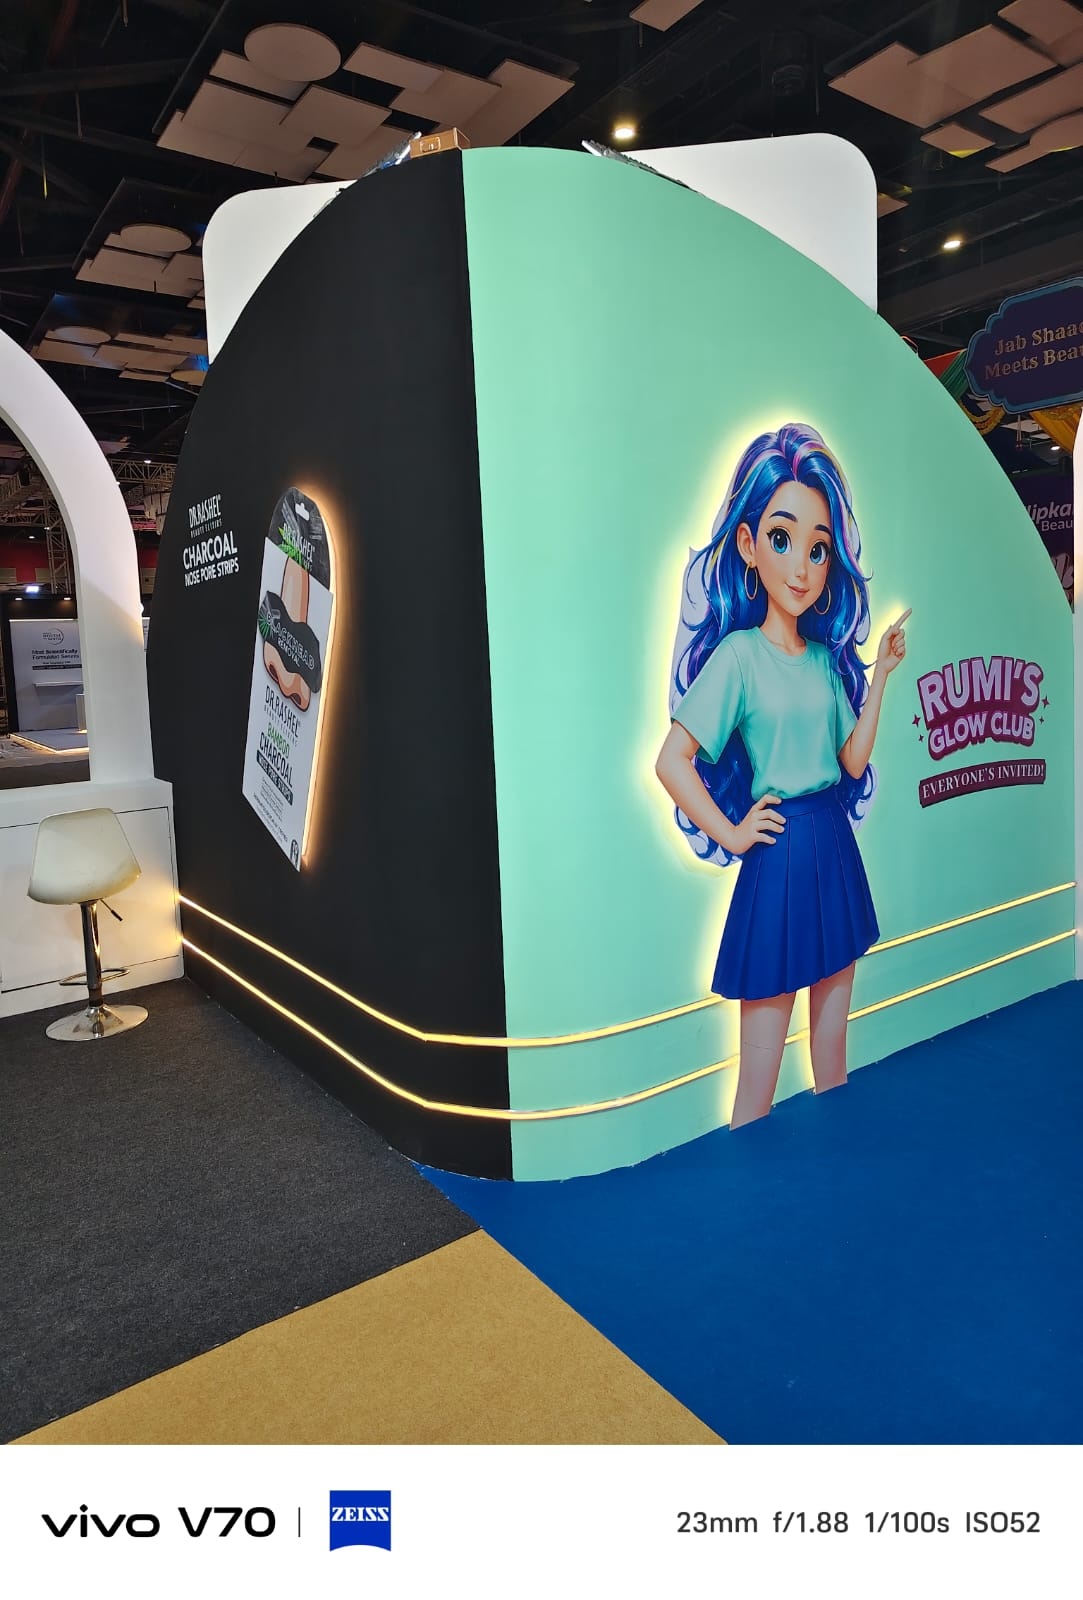
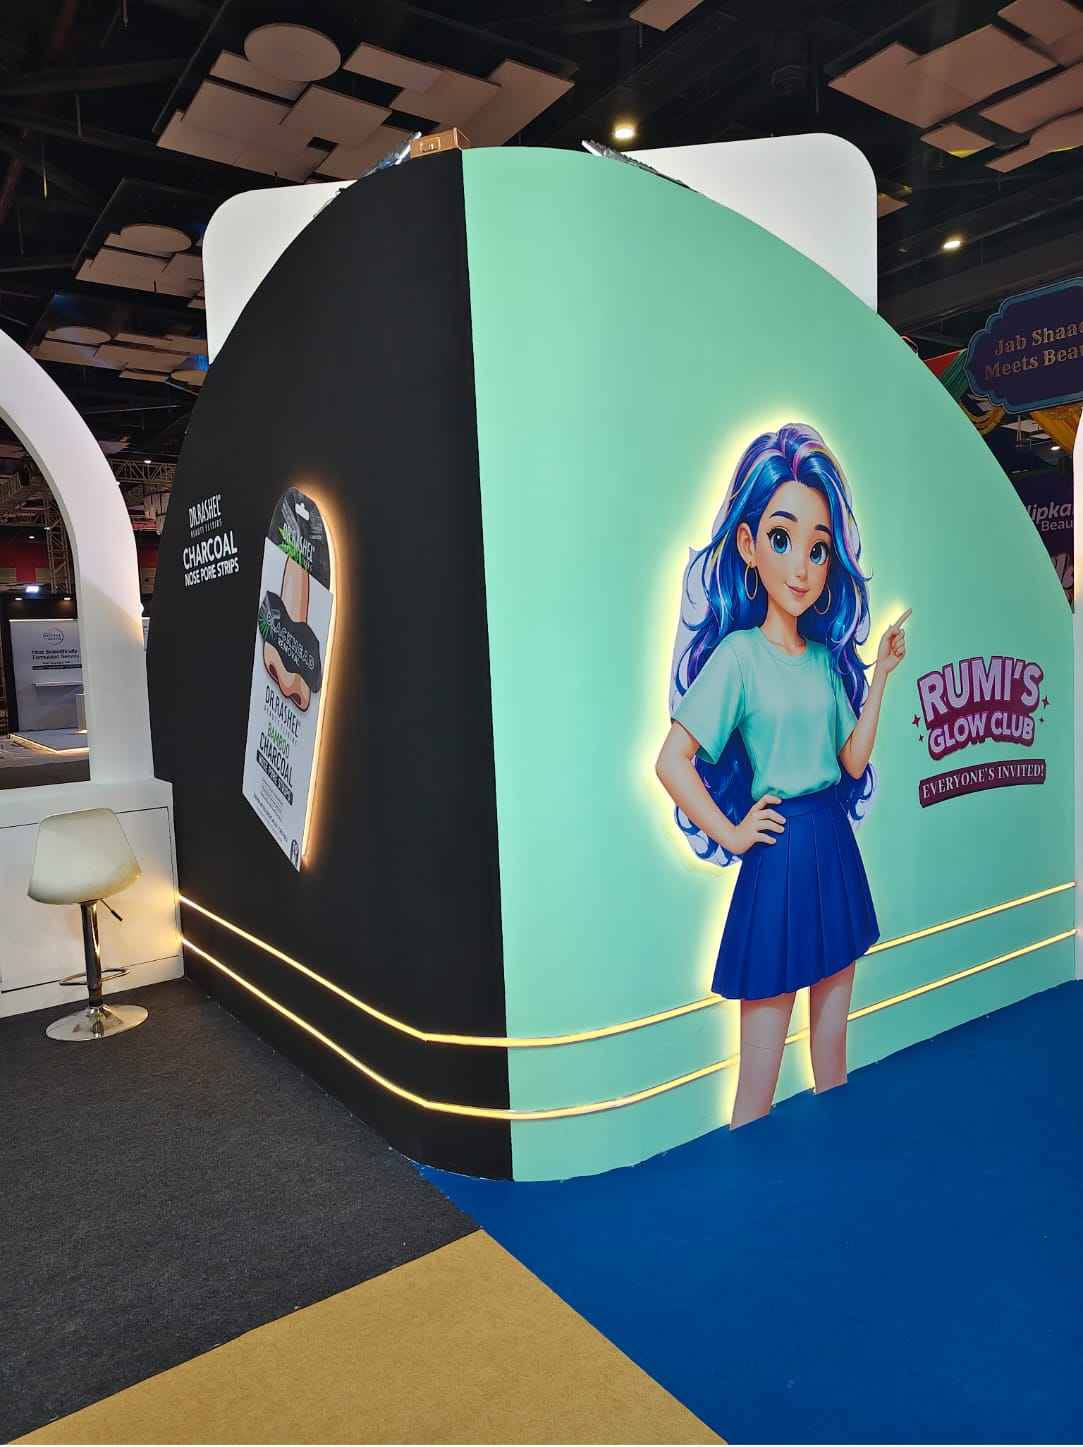
Replace IRIS image with Pepe Jeans in About page Vision/Mission section; crop white watermark bars from showcase images

diff --git a/src/components/OurPresence/OurPresence.jsx b/src/components/OurPresence/OurPresence.jsx
@@ -8,7 +8,7 @@ const mainHubs = [
     name: 'Mumbai',
     tag: 'Primary Hub',
     role: 'Western Headquarters & Commercial Center',
-    pos: { top: '56%', left: '30%' },
+    pos: { top: '56%', left: '22%' },
     mobileOrder: 1
   },
   {
@@ -16,30 +16,30 @@ const mainHubs = [
     name: 'Delhi',
     tag: 'Major Hub',
     role: 'Northern Division & Capital Operations',
-    pos: { top: '22%', left: '46%' },
+    pos: { top: '20%', left: '46%' },
     mobileOrder: 2
   }
 ]
 
 const operationalCities = [
-  { id: 'bengaluru', name: 'Bengaluru', pos: { top: '80%', left: '36%' } },
-  { id: 'ahmedabad', name: 'Ahmedabad', pos: { top: '38%', left: '18%' } },
-  { id: 'hyderabad', name: 'Hyderabad', pos: { top: '64%', left: '60%' } },
-  { id: 'kolkata', name: 'Kolkata', pos: { top: '42%', left: '80%' } },
-  { id: 'chennai', name: 'Chennai', pos: { top: '82%', left: '64%' } }
+  { id: 'bengaluru', name: 'Bengaluru', pos: { top: '82%', left: '30%' } },
+  { id: 'ahmedabad', name: 'Ahmedabad', pos: { top: '36%', left: '14%' } },
+  { id: 'hyderabad', name: 'Hyderabad', pos: { top: '65%', left: '68%' } },
+  { id: 'kolkata', name: 'Kolkata', pos: { top: '38%', left: '84%' } },
+  { id: 'chennai', name: 'Chennai', pos: { top: '84%', left: '64%' } }
 ]
 
 // SVG Network lines connecting cities in 100x100 coordinate space
 const networkLines = [
-  { from: [46, 22], to: [30, 56] }, // Delhi -> Mumbai
-  { from: [46, 22], to: [18, 38] }, // Delhi -> Ahmedabad
-  { from: [46, 22], to: [80, 42] }, // Delhi -> Kolkata
-  { from: [30, 56], to: [18, 38] }, // Mumbai -> Ahmedabad
-  { from: [30, 56], to: [36, 80] }, // Mumbai -> Bengaluru
-  { from: [30, 56], to: [60, 64] }, // Mumbai -> Hyderabad
-  { from: [60, 64], to: [64, 82] }, // Hyderabad -> Chennai
-  { from: [36, 80], to: [64, 82] }, // Bengaluru -> Chennai
-  { from: [60, 64], to: [80, 42] }  // Hyderabad -> Kolkata
+  { from: [46, 20], to: [22, 56] }, // Delhi -> Mumbai
+  { from: [46, 20], to: [14, 36] }, // Delhi -> Ahmedabad
+  { from: [46, 20], to: [84, 38] }, // Delhi -> Kolkata
+  { from: [22, 56], to: [14, 36] }, // Mumbai -> Ahmedabad
+  { from: [22, 56], to: [30, 82] }, // Mumbai -> Bengaluru
+  { from: [22, 56], to: [68, 65] }, // Mumbai -> Hyderabad
+  { from: [68, 65], to: [64, 84] }, // Hyderabad -> Chennai
+  { from: [30, 82], to: [64, 84] }, // Bengaluru -> Chennai
+  { from: [68, 65], to: [84, 38] }  // Hyderabad -> Kolkata
 ]
 
 export default function OurPresence() {

diff --git a/src/components/OurPresence/OurPresence.css b/src/components/OurPresence/OurPresence.css
@@ -5,27 +5,29 @@
 .presence-section {
   position: relative;
   background-color: #08080b;
-  padding: 35px 40px 75px;
+  padding: 45px 40px 75px;
   width: 100%;
   overflow: hidden;
   box-sizing: border-box;
+  border-top: 1px solid rgba(255, 199, 44, 0.35);
 }
 
 /* Gold hairline separator at the top */
 .presence-hairline {
   position: absolute;
   top: 0;
-  left: 10%;
-  width: 80%;
-  height: 1px;
+  left: 0;
+  width: 100%;
+  height: 2px;
   background: linear-gradient(
     to right,
     transparent 0%,
-    rgba(212, 175, 55, 0.15) 25%,
-    rgba(212, 175, 55, 0.45) 50%,
-    rgba(212, 175, 55, 0.15) 75%,
+    rgba(255, 199, 44, 0.4) 20%,
+    #FFC72C 50%,
+    rgba(255, 199, 44, 0.4) 80%,
     transparent 100%
   );
+  box-shadow: 0 0 10px 1px rgba(255, 199, 44, 0.3);
 }
 
 /* Ambient Radial Glows */

diff --git a/src/pages/AboutPage.jsx b/src/pages/AboutPage.jsx
@@ -190,7 +190,7 @@ export default function AboutPage() {
             }}
             style={{ borderRadius: '24px', overflow: 'hidden', height: '100%', minHeight: '200px' }}
           >
-            <img src="/images/landscape_12.jpeg" alt="Office" style={{ width: '100%', height: '100%', objectFit: 'cover' }} />
+            <img src="/images/pepe_jeans_stall.png" alt="Pepe Jeans London Exhibition Stall" style={{ width: '100%', height: '100%', objectFit: 'cover' }} />
           </motion.div>
 
           {/* Mission Card */}
